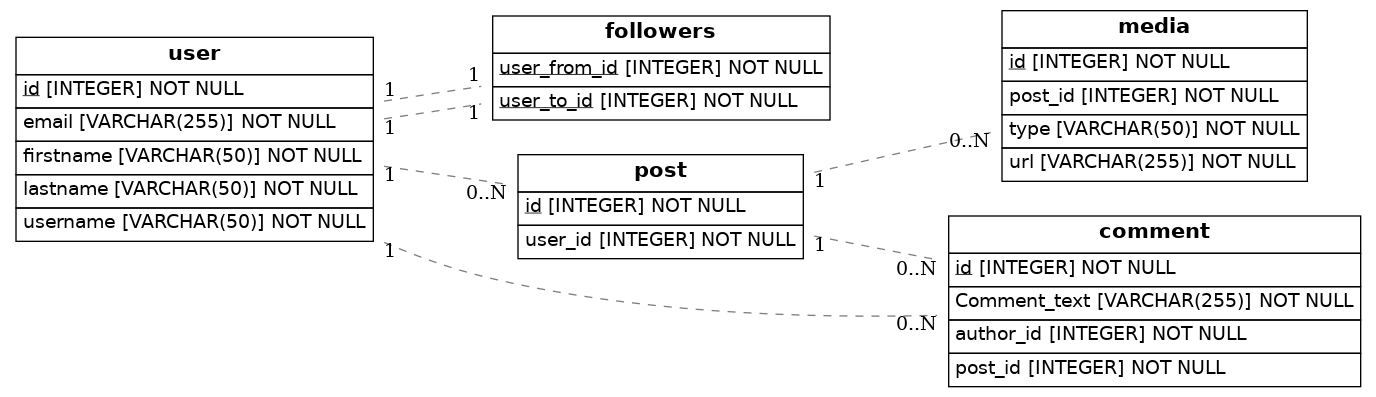
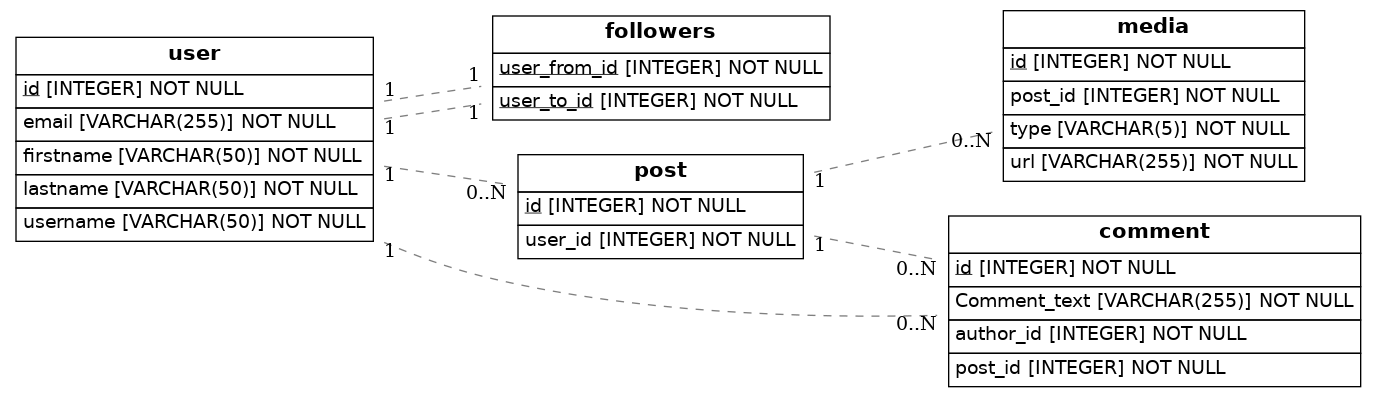
cambio en type de la class Media

diff --git a/src/models.py b/src/models.py
@@ -1,6 +1,6 @@
 import os
 import sys
-from sqlalchemy import Column, ForeignKey, Integer, String, Table
+from sqlalchemy import Column, ForeignKey, Integer, String, Table,Enum
 from sqlalchemy.orm import relationship, declarative_base
 from sqlalchemy import create_engine
 from eralchemy2 import render_er
@@ -27,7 +27,6 @@ class User(Base):
 #     __tablename__ = 'follower'
 #     id = Column(Integer, primary_key=True)
 
-
 #Relacion de uno a muchos entre user y post un usuario puede hacer muchos post 
 
 class Post(Base):
@@ -48,7 +47,7 @@ class Comment(Base):
 class Media(Base):
     __tablename__ = 'media'
     id =Column(Integer, primary_key=True)
-    type =Column(String(50), nullable=False)
+    type = Column(Enum('image', 'video', 'audio', name='media_types'), nullable=False)  # Definición de type como enum
     url =Column(String(255), nullable=False)
     post_id = Column(Integer, ForeignKey('post.id'), nullable=False)
 
